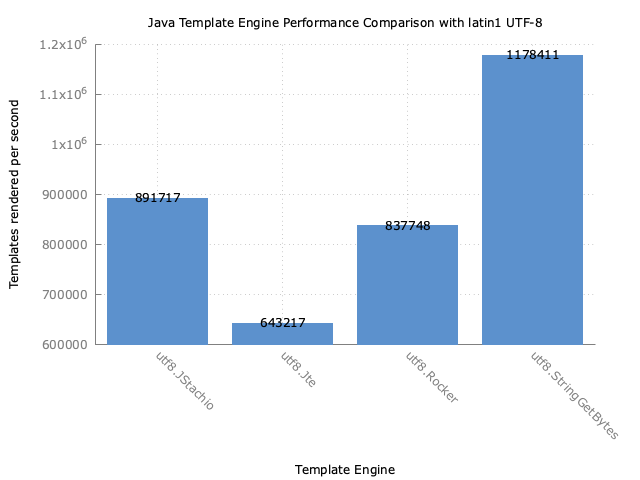
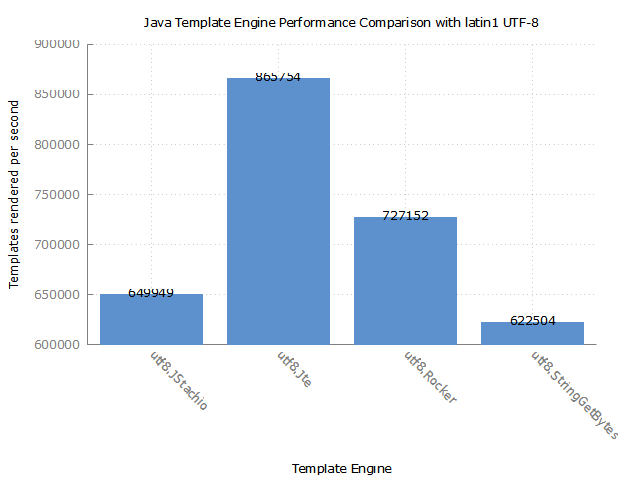
Create UTF-8 benchmark with jte 3

diff --git a/src/main/java/com/mitchellbosecke/benchmark/Jte.java b/src/main/java/com/mitchellbosecke/benchmark/Jte.java
@@ -5,7 +5,6 @@ import com.mitchellbosecke.benchmark.model.Stock;
 import gg.jte.ContentType;
 import gg.jte.TemplateEngine;
 import gg.jte.output.StringOutput;
-import gg.jte.output.StringOutputPool;
 import org.openjdk.jmh.annotations.Benchmark;
 import org.openjdk.jmh.annotations.Setup;
 
@@ -20,7 +19,6 @@ import java.util.List;
  * @author casid
  */
 public class Jte extends BaseBenchmark {
-    private static final StringOutputPool stringOutputPool = new StringOutputPool();
     private TemplateEngine templateEngine;
     private List<Stock> items;
 
@@ -34,7 +32,7 @@ public class Jte extends BaseBenchmark {
 
     @Benchmark
     public String benchmark() {
-        StringOutput output = stringOutputPool.get();
+        StringOutput output = new StringOutput();
         templateEngine.render("stocks.jte", items, output);
         return output.toString();
     }

diff --git a/src/main/java/com/mitchellbosecke/benchmark/utf8/JteUtf8.java b/src/main/java/com/mitchellbosecke/benchmark/utf8/JteUtf8.java
@@ -39,9 +39,7 @@ public class JteUtf8 extends BaseBenchmark {
     @Benchmark
     public byte[] benchmark() throws IOException {
         Utf8ByteOutput output = new Utf8ByteOutput();
-        ByteBufferedOutputStream stream = new ByteBufferedOutputStream(8 * 1024);
         templateEngine.render("stocks.jte", items, output);
-        output.writeTo(stream);
-        return stream.toByteArray();
+        return output.toByteArray();
     }
 }
